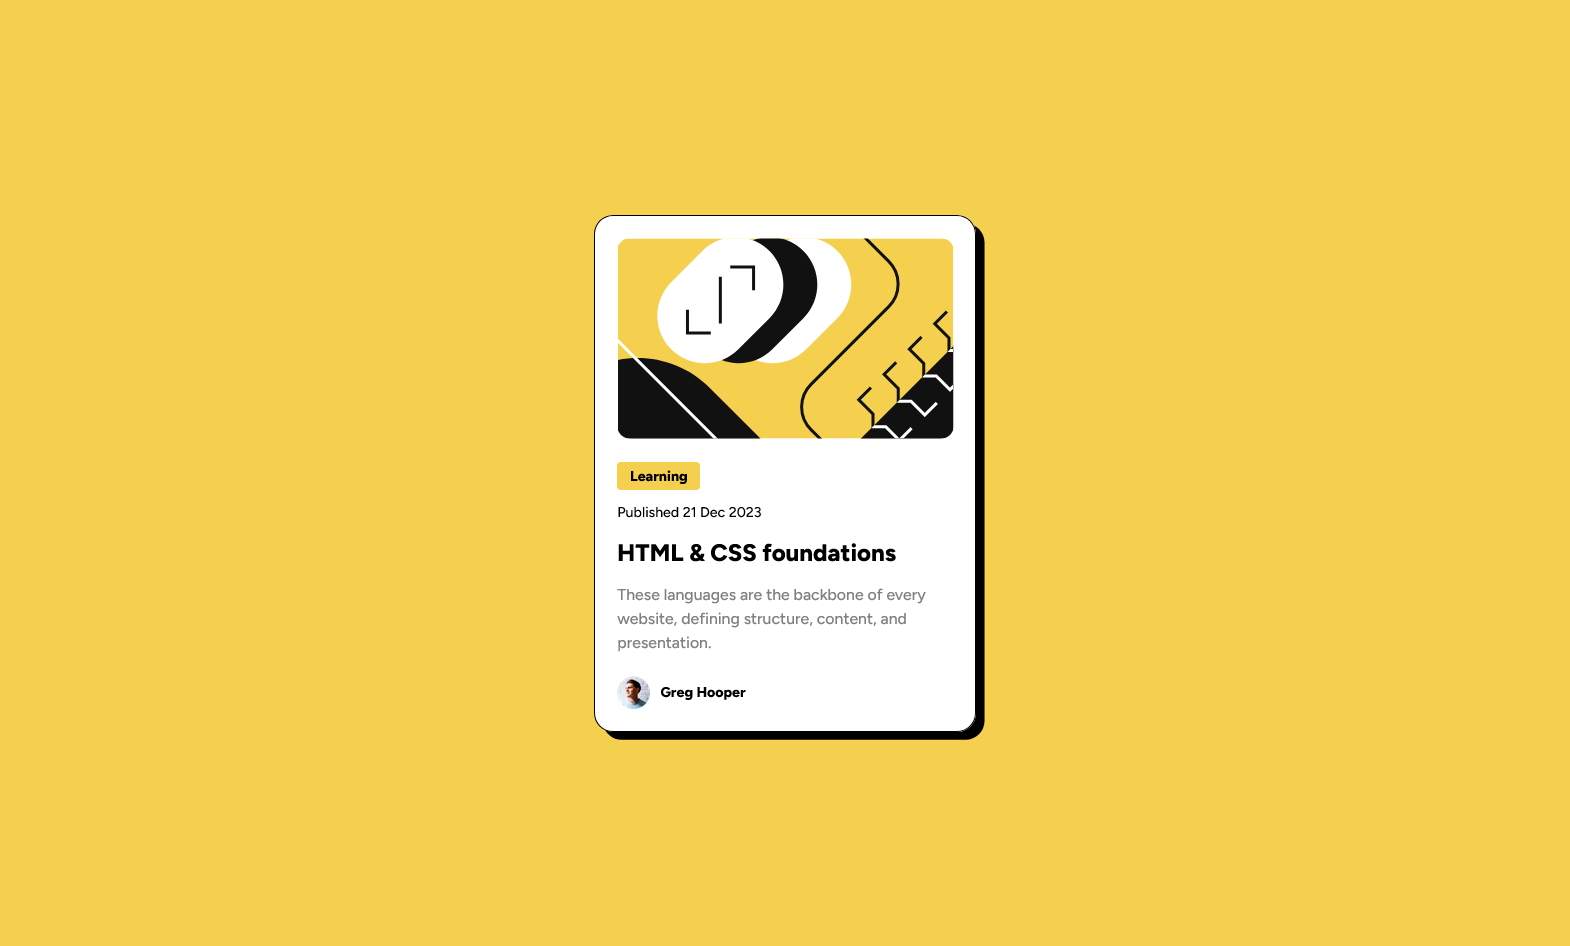
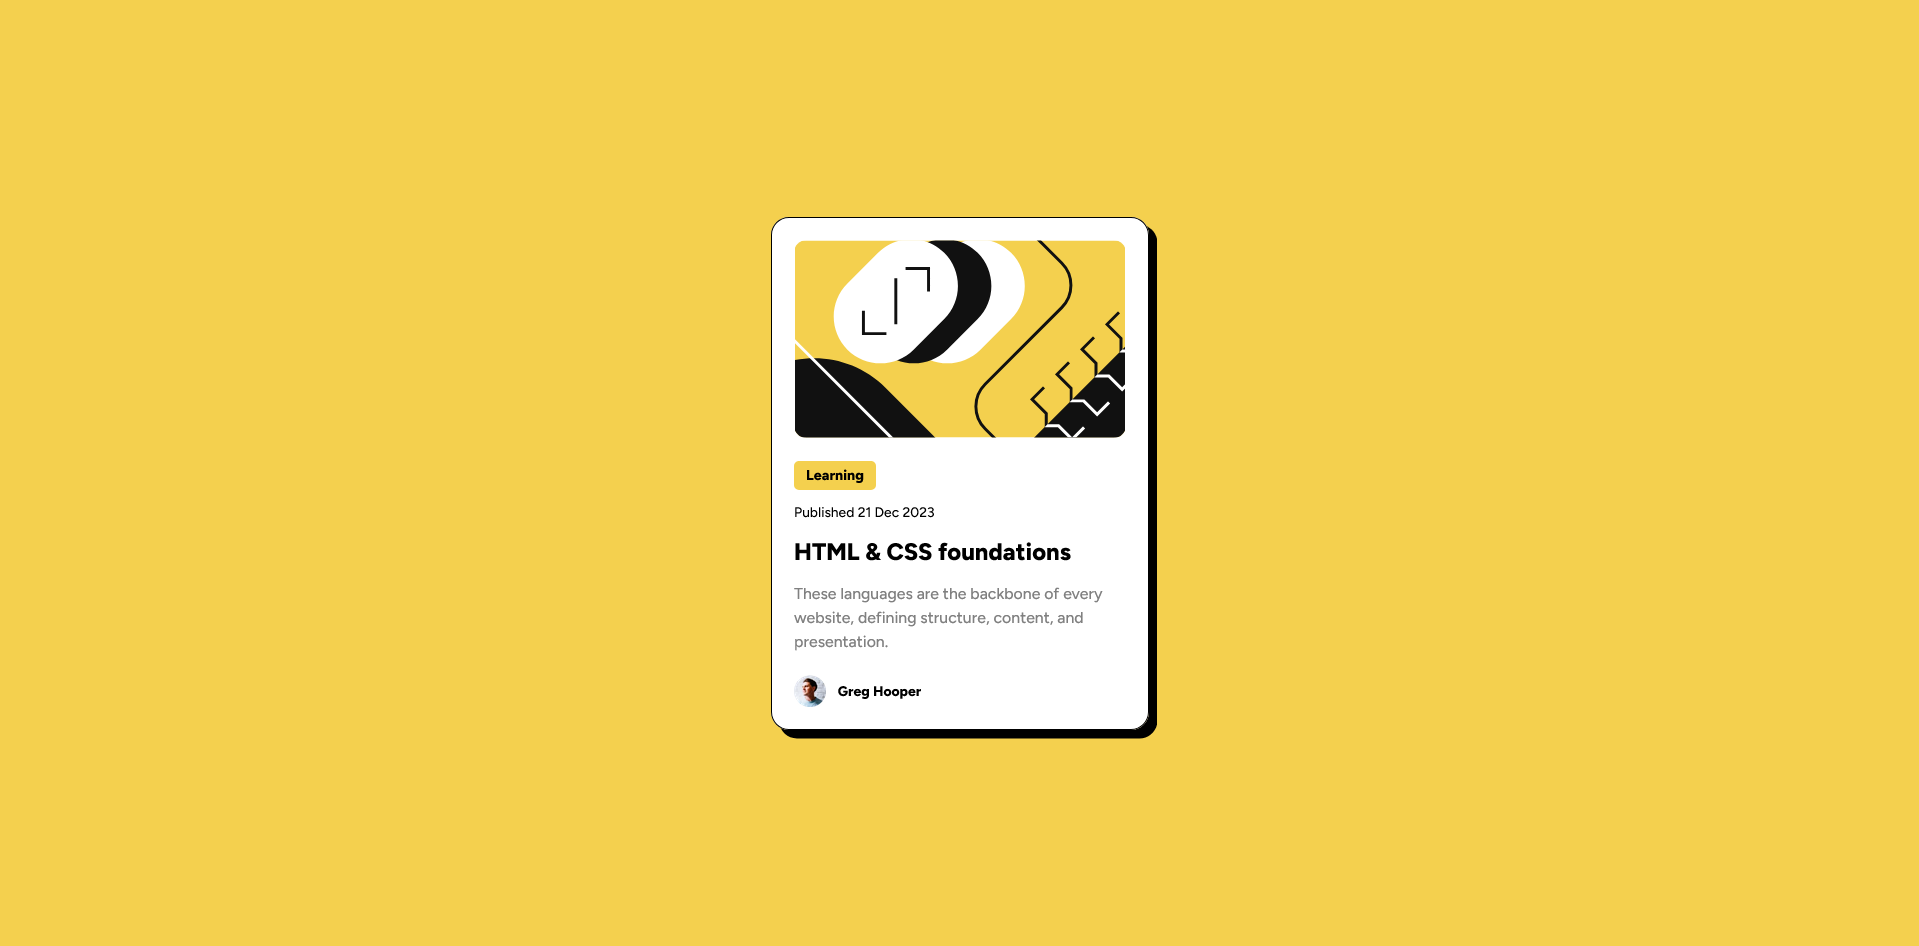
Update

Changed region(s): [[0.3745, 0.2146, 0.6554, 0.797]]

diff --git a/Solution02/src/style.css b/Solution02/src/style.css
@@ -246,91 +246,92 @@ body main {
   height: 100vh;
   background-color: hsl(47, 88%, 63%);
 }
-body main .blog {
+body main article {
   display: flex;
   flex-direction: column;
   align-items: flex-start;
+  padding: 2.05rem;
+  max-width: 347px;
+  border-radius: 1.65rem;
   background-color: #fff;
-  padding: 2rem;
-  border-radius: 1.75rem;
   border: 1px solid hsl(0, 0%, 0%);
   box-shadow: #000 0.75rem 0.75rem 0 0;
-  max-width: 350px;
 }
-body main .blog .blog-image {
+body main article .article-image {
   -o-object-fit: cover;
      object-fit: cover;
-  border-radius: 1.25rem;
+  border-radius: 1.15rem;
   margin-bottom: 2.1rem;
 }
-body main .blog .blog-tag {
+body main article .article-tag {
   background-color: hsl(47, 88%, 63%);
   font-weight: 800;
   font-size: 1.3rem;
-  padding: 0.55rem 1.15rem;
-  border-radius: 0.35rem;
-  margin-bottom: 1.25rem;
+  padding: 0.5rem 1.1rem 0.6rem;
+  border-radius: 0.45rem;
+  margin-bottom: 1.3rem;
   cursor: pointer;
   transition: all 0.2s;
 }
-body main .blog .blog-tag:hover {
+body main article .article-tag:hover {
   transform: scale(120%) translateX(7.5%);
 }
-body main .blog .blog-tag:focus {
+body main article .article-tag:focus {
   transform: scale(120%) translateX(7.5%);
 }
-body main .blog .blog-date {
-  font-size: 1.3rem;
+body main article .article-date {
+  font-size: 12.65px;
   font-weight: 500;
   margin-bottom: 1.65rem;
 }
-body main .blog h1 {
-  font-size: 2.2rem;
+body main article h1 {
+  font-size: 21.85px;
   font-weight: 800;
   margin-top: 0;
   margin-bottom: 1.5rem;
   cursor: pointer;
   transition: all 0.2s;
 }
-body main .blog h1:hover {
+body main article h1:hover {
   color: hsl(47, 88%, 63%);
 }
-body main .blog h1:focus {
+body main article h1:focus {
   color: hsl(47, 88%, 63%);
 }
-body main .blog p {
+body main article p {
   color: hsl(0, 0%, 50%);
   font-size: 1.45rem;
   font-weight: 500;
   margin-bottom: 2rem;
   line-height: 2.2rem;
 }
-body main .blog .blog-author {
+body main article .article-author {
   display: flex;
   align-items: center;
-  gap: 1rem;
+  gap: 1.1rem;
 }
-body main .blog .blog-author img {
-  max-width: 2.95rem;
+body main article .article-author img {
+  width: 2.9rem;
+  height: 2.9rem;
 }
-body main .blog .blog-author span {
-  font-size: 1.3rem;
+body main article .article-author span {
+  font-size: 12.75px;
   font-weight: 800;
   cursor: pointer;
   transition: all 0.2s;
 }
-body main .blog .blog-author span:hover {
+body main article .article-author span:hover {
   color: hsl(47, 88%, 63%);
 }
-body main .blog .blog-author span:focus {
+body main article .article-author span:focus {
   color: hsl(47, 88%, 63%);
 }
 
 @media screen and (width <= 400px) {
-  .blog {
+  article {
     max-width: 325px !important;
   }
-  .blog-image {
+  .article-image {
     height: 20rem;
   }
 }/*# sourceMappingURL=style.css.map */

diff --git a/Solution02/src/style.scss b/Solution02/src/style.scss
@@ -16,30 +16,30 @@ body {
         height: 100vh;
         background-color: hsl(47, 88%, 63%);
 
-        .blog {
+        article {
             display: flex;
             flex-direction: column;
             align-items: flex-start;
+            padding: 2.05rem;
+            max-width: 347px;
+            border-radius: 1.65rem;
             background-color: #fff;
-            padding: 2rem;
-            border-radius: 1.75rem;
             border: 1px solid hsl(0, 0%, 0%);
             box-shadow: #000 0.75rem 0.75rem 0 0;
-            max-width: 350px;
 
-            .blog-image {
+            .article-image {
                 object-fit: cover;
-                border-radius: 1.25rem;
+                border-radius: 1.15rem;
                 margin-bottom: 2.1rem;
             }
 
-            .blog-tag {
+            .article-tag {
                 background-color: hsl(47, 88%, 63%);
                 font-weight: 800;
                 font-size: 1.3rem;
-                padding: 0.55rem 1.15rem;
-                border-radius: 0.35rem;
-                margin-bottom: 1.25rem;
+                padding: 0.5rem 1.1rem 0.6rem;
+                border-radius: 0.45rem;
+                margin-bottom: 1.3rem;
                 cursor: pointer;
                 transition: all 0.2s;
 
@@ -52,14 +52,15 @@ body {
                 }
             }
 
-            .blog-date {
-                font-size: 1.3rem;
+            .article-date {
+                font-size: 12.65px;
                 font-weight: 500;
                 margin-bottom: 1.65rem;
             }
 
             h1 {
-                font-size: 2.2rem;
+                // font-size: 2.15rem;
+                font-size: 21.85px;
                 font-weight: 800;
                 margin-top: 0;
                 margin-bottom: 1.5rem;
@@ -83,17 +84,18 @@ body {
                 line-height: 2.2rem;
             }
 
-            .blog-author {
+            .article-author {
                 display: flex;
                 align-items: center;
-                gap: 1rem;
+                gap: 1.1rem;
 
                 img {
-                    max-width: 2.95rem;
+                    width: 2.9rem;
+                    height: 2.9rem;
                 }
 
                 span {
-                    font-size: 1.3rem;
+                    font-size: 12.75px;
                     font-weight: 800;
                     cursor: pointer;
                     transition: all 0.2s;
@@ -112,11 +114,11 @@ body {
 }
 
 @media screen and (width <= 400px) {
-    .blog {
+    article {
         max-width: 325px !important;
     }
 
-    .blog-image {
+    .article-image {
         height: 20rem;
     }
 }

diff --git a/Solution02/src/index.html b/Solution02/src/index.html
@@ -6,25 +6,25 @@
         <meta http-equiv="X-UA-Compatible" content="IE=edge" />
         <meta name="viewport" content="width=device-width, initial-scale=1.0" />
 
-        <title>Blog Preview Card</title>
         <link rel="icon" type="image/x-icon" href="assets/images/favicon-32x32.png" />
+        <title>Blog Preview Card</title>
 
         <link rel="stylesheet" href="style.css" />
     </head>
 
     <body>
         <main>
-            <div class="blog">
-                <img class="blog-image" src="assets/images/illustration-article.svg" alt="illustration image" />
-                <span tabindex="0" class="blog-tag">Learning</span>
-                <span class="blog-date">Published 21 Dec 2023</span>
+            <article>
+                <img class="article-image" src="assets/images/illustration-article.svg" alt="illustration image" />
+                <span class="article-tag" tabindex="0">Learning</span>
+                <span class="article-date">Published 21 Dec 2023</span>
                 <h1 tabindex="0">HTML & CSS foundations</h1>
                 <p>These languages are the backbone of every website, defining structure, content, and presentation.</p>
-                <div class="blog-author">
+                <div class="article-author">
                     <img src="assets/images/image-avatar.webp" alt="avatar image" />
                     <span tabindex="0">Greg Hooper</span>
                 </div>
-            </div>
+            </article>
         </main>
     </body>
 </html>

diff --git a/Solution02/README.md b/Solution02/README.md
@@ -11,11 +11,11 @@ Users should be able to:
 ## Links
 
 -   Solution URL: [https://www.frontendmentor.io/solutions/blog-preview-card-html-scss-7NobMfhz2F](https://www.frontendmentor.io/solutions/blog-preview-card-html-scss-7NobMfhz2F)
--   Live Site URL: [https://redened.github.io/Frontendmentor-Project02/src/](https://redened.github.io/Frontend.Mentor/Solution02/src)
+-   Live Site URL: [https://redened.github.io/Frontend.Mentor/Solution02/src/](https://redened.github.io/Frontend.Mentor/Solution02/src/)
 
 ### Screenshot
 
-![Desktop](Desktop.png)
+![Desktop](../Screenshots/Solution02.png)
 
 ### What I learned
 

diff --git a/Solution01/README.md b/Solution01/README.md
@@ -5,7 +5,7 @@ This is a solution to the ["QR Code Component" challenge on Frontend Mentor](htt
 ## Links
 
 - Solution URL: [https://www.frontendmentor.io/solutions/qr-code-component-scss-0DVzjgxYFi](https://www.frontendmentor.io/solutions/qr-code-component-scss-0DVzjgxYFi)
-- Live Site URL: [https://redened.github.io/Frontendmentor-Project01/](https://redened.github.io/Frontend.Mentor/Solution01/src/)
+- Live Site URL: [https://redened.github.io/Frontend.Mentor/Solution01/src/](https://redened.github.io/Frontend.Mentor/Solution01/src/)
 
 ### Screenshot
 
